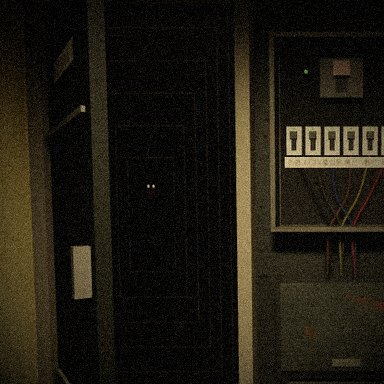
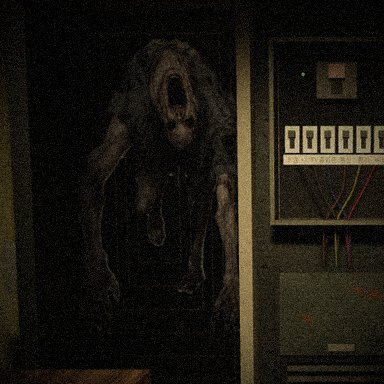
질주자 이미지 적용 (첫 번째 컷의 세 번째 팔 제거)
Claude-Session: https://claude.ai/code/session_01NjgMo2t3zs6EGzcBJjP3YB

diff --git a/index.html b/index.html
@@ -279,7 +279,7 @@ body[data-mode=game] #pauseBtn{display:flex}
 <script nomodule>window.THREE_ERR='nomodule'</script>
 <script>
 // ===================== 기본 =====================
-const VER='0.11.0'; // 올릴 때마다 바꾸기 (캐시에 남은 옛 버전을 새로고침하는 데 씀)
+const VER='0.11.1'; // 올릴 때마다 바꾸기 (캐시에 남은 옛 버전을 새로고침하는 데 씀)
 const $=id=>document.getElementById(id);
 const cv=$('cv'),cx=cv.getContext('2d');
 let W,H,DPR=1;
@@ -871,7 +871,7 @@ function drawStalker(g,x,y,h,a,t,pose){
   g.restore();
 }
 // 응시자·그림자·복제자 AI 이미지
-const PIC={};[['rfull','runner_full'],['rclose','runner_close'],['sfull','static_full'],['speek','static_peek'],['sclose','static_close'],['sh1','shadow_1'],['sh2','shadow_2'],['sh3','shadow_3'],['cseat','clone_seat'],['cstand','clone_stand'],['cface','clone_face']].forEach(([k,f])=>{const im=new Image();im.onload=()=>{PIC[k]=im};im.src='img/'+f+'.png'});
+const PIC={};[['rfull','runner_full'],['rside','runner_side'],['rclose','runner_close'],['sfull','static_full'],['speek','static_peek'],['sclose','static_close'],['sh1','shadow_1'],['sh2','shadow_2'],['sh3','shadow_3'],['cseat','clone_seat'],['cstand','clone_stand'],['cface','clone_face']].forEach(([k,f])=>{const im=new Image();im.onload=()=>{PIC[k]=im};im.src='img/'+f+'.png'});
 // 교대자 AI 이미지 (img 폴더). 못 불러오면 코드로 그린 버전 사용
 const STK={},PEEK_EDGE=.2985; // peek 이미지에서 벽 모서리 위치(가로 비율)
 ['full','peek','close'].forEach(k=>{const im=new Image();im.onload=()=>{STK[k]=im};im.src='img/stalker_'+k+'.png'});
@@ -2562,7 +2562,7 @@ function drawJump(){
   if(t<.05&&SET.scare!=='soft'){cx.fillStyle='#fff';cx.fillRect(0,0,W,H);return} // 약하게: 흰 섬광 없음
   const iw=img.naturalWidth||img.width,ih=img.naturalHeight||img.height;
   const sc=Math.max(H/ih,W/iw*.62)*(1.1+t*.8),dw=iw*sc,dh=ih*sc; // 얼굴 전체가 보이게, 빠르게 커지며 덮쳐옴
-  const fy=jumpType==='은둔자'?.36:.5,x=W/2-dw/2+rnd(-30,30),y=H/2-dh*fy+rnd(-30,30)+(1-Math.min(1,t*5))*H*.25; // 은둔자는 눈과 입이 같이 보이게 위쪽에 맞춤
+  const fy=jumpType==='은둔자'?.36:jumpType==='질주자'?.42:.5,x=W/2-dw/2+rnd(-30,30),y=H/2-dh*fy+rnd(-30,30)+(1-Math.min(1,t*5))*H*.25; // 은둔자는 눈과 입이 같이 보이게 위쪽에 맞춤
   cx.drawImage(img,x,y,dw,dh);
   cx.save();cx.globalAlpha=.3;cx.globalCompositeOperation='screen';cx.drawImage(img,x+rnd(8,18),y,dw,dh);cx.restore();
   for(let k=0;k<3;k++){const yy=rnd(0,H),hh=rnd(6,40);cx.drawImage(cv,0,yy*DPR,W*DPR,hh*DPR,rnd(-40,40),yy,W,hh)}
@@ -2603,7 +2603,7 @@ function drawStoreHall(c,a,r,on){const g=c.getContext('2d'),w=c.width,h=c.height
   g.strokeStyle='rgba(60,52,36,.6)';g.lineWidth=2;for(let k=1;k<7;k++){const s2=1-k/8;g.strokeRect(w*.5-w*.5*s2,h*.45-h*.55*s2,w*s2,h*s2*1.0)}
   if(!on)return;const run=r.phase===1,k=run?1-r.runT/(S.hard?2.6:3.4):0;
   if(run||r.open>.6){const z=run?.12+k*.95:.06,cx2=w*.5+Math.sin(T_*23)*w*.02*z,fy=h*.45+h*.5*z,fh=h*(.15+z*.95);
-    const im=z>.6&&PIC.rclose?PIC.rclose:PIC.rfull;
+    const im=!run?(PIC.rside||PIC.rfull):z>.8&&PIC.rclose?PIC.rclose:PIC.rfull; // 서서 노려봄 → 달려옴 → 문 앞에서 거꾸로 된 얼굴
     if(im){const fw=fh*im.width/im.height;g.globalAlpha=Math.min(1,.3+z);g.drawImage(im,cx2-fw/2,fy-fh,fw,fh);g.globalAlpha=1}
     else{g.save();g.translate(cx2,fy);g.scale(fh/200,fh/200);g.fillStyle='#050403';g.beginPath();g.ellipse(0,-60,40,26,0,0,7);g.fill(); // 임시 형체: 네 발로 꺾인 몸
       [[-36,-55,-60,0],[36,-55,60,0],[-20,-50,-40,-110],[20,-50,40,-110]].forEach(([x0,y0,x1,y1])=>{g.lineWidth=9;g.strokeStyle='#050403';g.beginPath();g.moveTo(x0,y0);g.lineTo((x0+x1)/2+(x1>0?14:-14),(y0+y1)/2-30);g.lineTo(x1,y1);g.stroke()});
